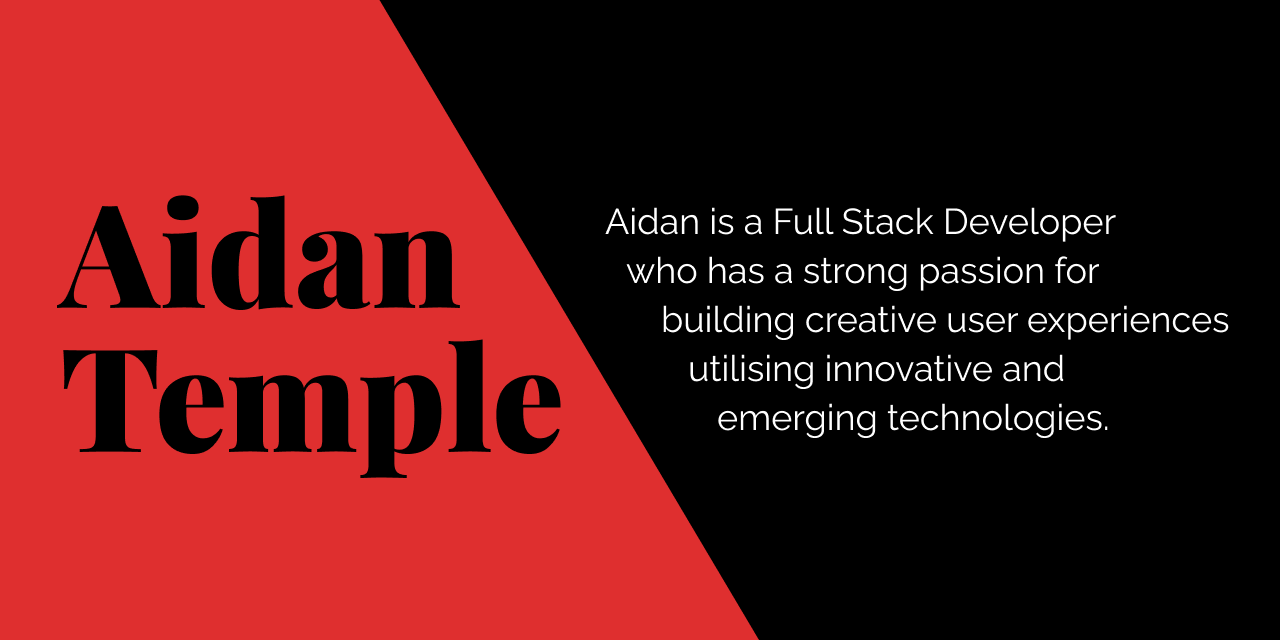
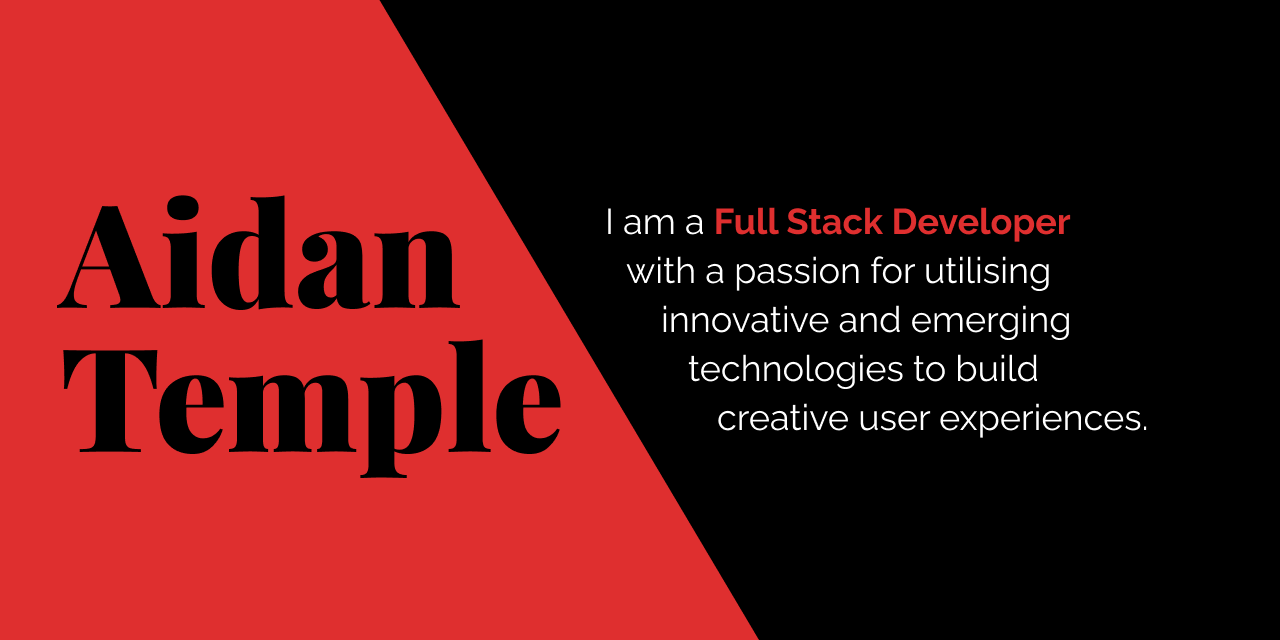
Update Summary

Changed region(s): [[0.5, 0.4062, 0.9688, 0.5312], [0.5312, 0.5625, 0.9062, 0.6875], [0.4688, 0.3125, 0.875, 0.375]]

diff --git a/index.html b/index.html
@@ -3,7 +3,7 @@
   <head>
     <meta charset='UTF-8'>
     <meta name='viewport' content='width=device-width, initial-scale=1.0'>
-    <meta name='description' content='Aidan is a Full Stack Developer who has a strong passion for building creative user experiences utilising innovative and emerging technologies.'>
+    <meta name='description' content='I am a Full Stack Developer with a passion for utilising innovative and emerging technologies to build creative user experiences.'>
     <meta property='og:image' content='https://aidantemple.com/social.png'>
     <title>Aidan Temple</title>
     <link rel='preconnect' href='https://fonts.gstatic.com'>
@@ -36,7 +36,8 @@
         inset: 0;
         z-index: -1;
         background-color: #DF2F2F;
-        clip-path: polygon(0 0, 33% 0, 66% 100%, 0% 100%);
+        clip-path: polygon(0 0, 33% 0, 66% 100%, 0 100%);
+        animation: background-horizontal 0.75s cubic-bezier(0.65, 0, 0.35, 1);
       }
 
       .title {
@@ -113,6 +114,7 @@
 
         body::after {
           clip-path: polygon(0 0, 100% 0, 100% 45%, 0 55%);
+          animation: background-portrait 0.75s cubic-bezier(0.65, 0, 0.35, 1);
         }
 
         .title {
@@ -122,8 +124,20 @@
 
         .content {
           box-sizing: border-box;
-          padding: 0rem 1rem;
+          padding: 0rem 2rem;
           margin: 0;
+        }
+      }
+
+      @keyframes background-horizontal {
+        0% {
+          clip-path: polygon(0 0, 0 0, 0 100%, 0 100%);
+        }
+      }
+      
+      @keyframes background-portrait {
+        0% {
+          clip-path: polygon(0 0, 100% 0, 100% 0, 0 0);
         }
       }
     </style>
@@ -139,7 +153,7 @@
   <body>
     <h1 class='title'>Aidan Temple</h1>
     <div class='content'>
-      <span class='description'>Aidan is a <span class='role'>Full Stack Developer</span> who has a strong passion for building creative user experiences utilising innovative and emerging technologies. He has multidisciplinary experience in Frontend Development, Backend Development, DevOps Engineering, UI/UX Design, Photography, and Motion Graphics.</span>
+      <span class='description'>I am a <span class='role'>Full Stack Developer</span> with a passion for utilising innovative and emerging technologies to build creative user experiences. I work best when collaborating in a multidisciplinary environment and have skills in Front-End Development, Back-End Development, DevOps Engineering, and UI/UX Design.</span>
       <div class='links'>
         <a class='github' href='https://github.com/aidant' target='_blank' rel='noopener noreferrer'>
           <svg class='github-icon' xmlns='http://www.w3.org/2000/svg' viewBox='0 0 45 44'>
